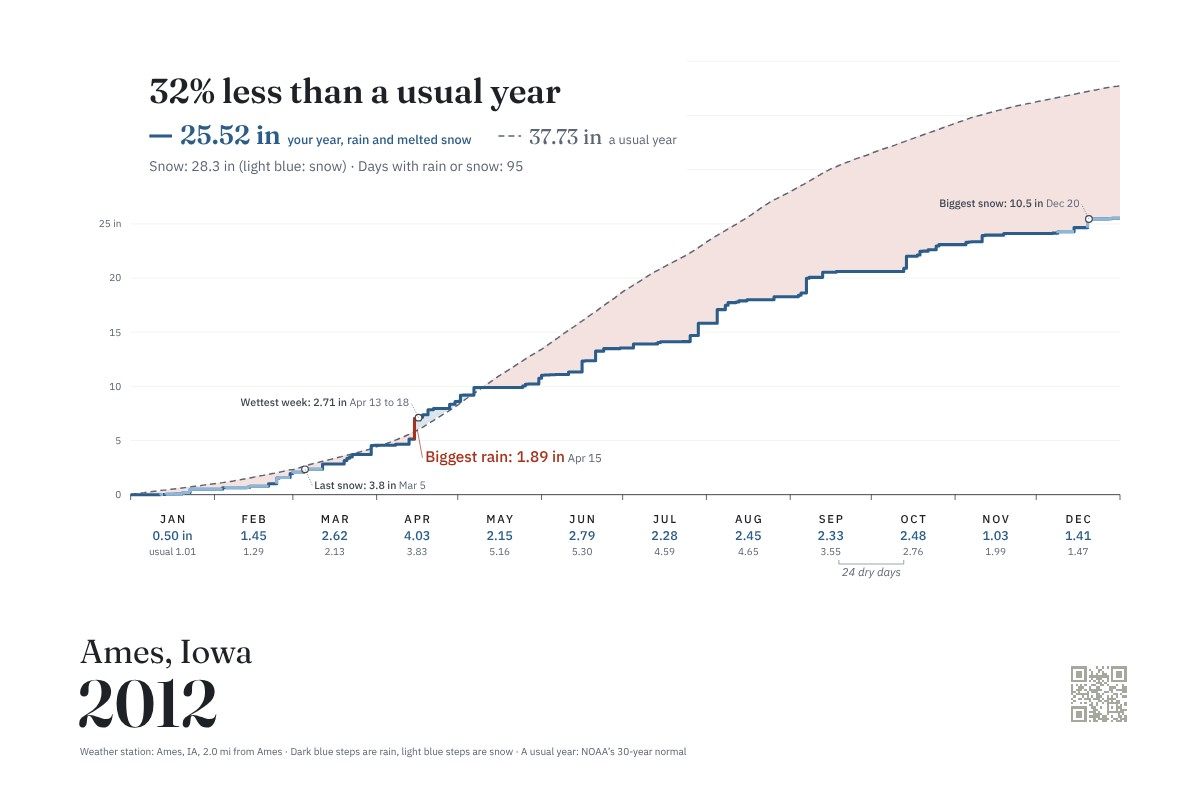
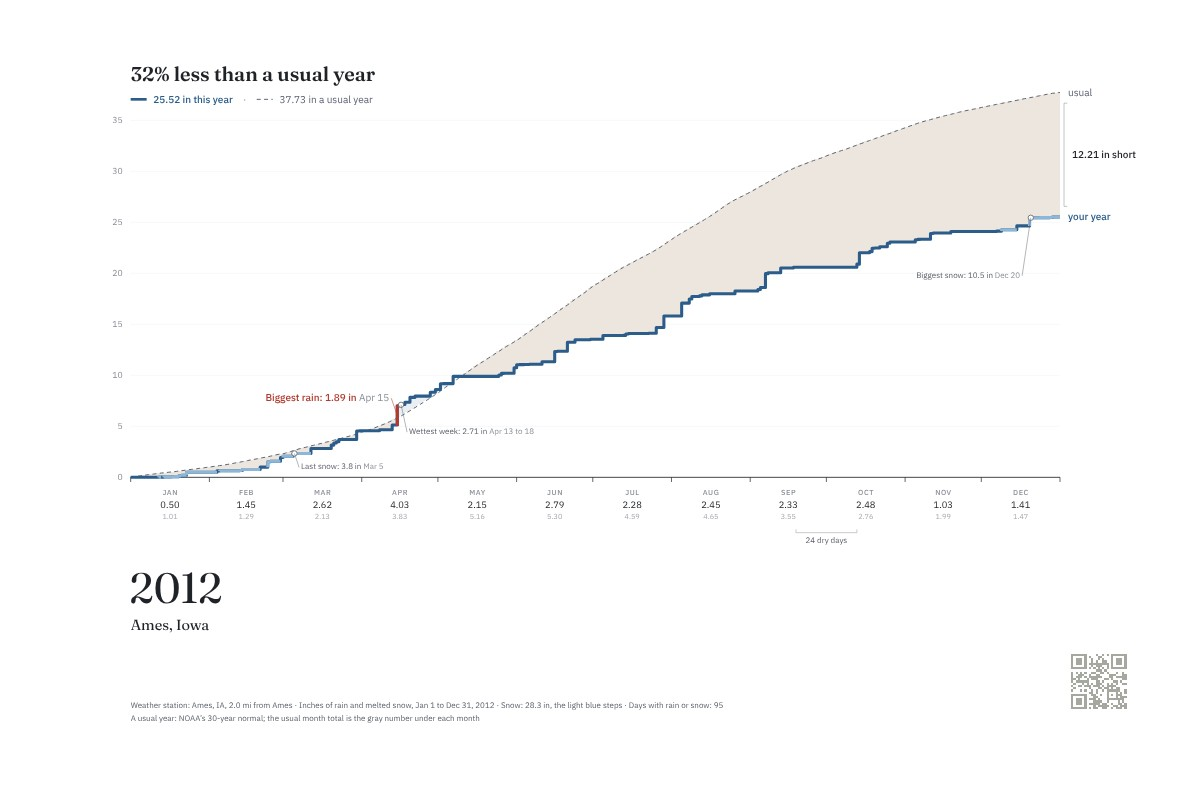
Rain Print: example prints re-rendered in A2 clean; temperature station tried from the listed stations first; a wet year's bracket says more

diff --git a/components/rain-print.js b/components/rain-print.js
@@ -1827,8 +1827,9 @@
       return Promise.resolve(TEMP);
     }
     var town = META.city;
-    return tempStationsNear(META.lat, META.lon, year).then(function (list) {
-      var c = list.filter(function (x) { return x.sid !== META.sid; }).slice(0, 3);
+    /* First the rain stations already listed (most of them were read for the print already, so no new ask),
+       the five nearest; then, if none kept highs and lows, NOAA's list of stations that do, the three nearest. */
+    var tryList = function (c) {
       return Promise.all(c.map(function (x) { return daily(x.sid, year).then(function (d) { return d; }, function () { return null; }); })).then(function (ds) {
         var best = null;
         c.forEach(function (x, i) {
@@ -1836,9 +1837,18 @@
           var td = X.tempDays(ds[i].raw, year);
           if (tempStationOk(td, last)) best = { sid: x.sid, td: td, rows: ds[i].raw, tm: { same: false, name: stationName(ds[i].meta.name || x.name), words: tempAway(x.km) } };
         });
-        if (TEMP_KEY !== key) return;
-        TEMP = best || { none: 'No weather station near ' + town + ' kept daily highs and lows for ' + year + ', so frost, the hottest and coldest day, crop stages and the temperature band are off.' };
+        return best;
       });
+    };
+    var near = STATIONS.filter(function (x) { return x.sid !== META.sid && !(CA() && CA().isSid(x.sid)); }).slice(0, 5);
+    return tryList(near).then(function (best) {
+      if (best) return best;
+      return tempStationsNear(META.lat, META.lon, year).then(function (list) {
+        return tryList(list.filter(function (x) { return x.sid !== META.sid && !near.some(function (n) { return n.sid === x.sid; }); }).slice(0, 3));
+      });
+    }).then(function (best) {
+      if (TEMP_KEY !== key) return;
+      TEMP = best || { none: 'No weather station near ' + town + ' kept daily highs and lows for ' + year + ', so frost, the hottest and coldest day, crop stages and the temperature band are off.' };
     }).then(null, function () { if (TEMP_KEY === key) { TEMP = { none: 'The temperature records didn’t load just now, so frost, the hottest and coldest day, crop stages and the temperature band are off. Try again in a minute.' }; TEMP_KEY = ''; } });
   }
   function tempFound() {

diff --git a/components/rain-print-art.js b/components/rain-print-art.js
@@ -1238,7 +1238,7 @@
       if (E.cmp) { ends.push(T(EX, endN + 5, uw, { size: 15, fill: C.mute })); endBoxes.push(box(EX, endN + 5, uw, { size: 15 })); }
       var gap = E.cmp ? E.normalRec - E.total : 0;
       if (E.cmp && Math.abs(gap) >= 0.5 && Math.abs(endY - endN) > 60) {
-        var bx = X1 + 6, ya = Math.min(endY, endN) + 16, yb = Math.max(endY, endN) - 16, mid = (ya + yb) / 2, bt = rainAmt(Math.abs(gap), 'tot') + (LOC.fr ? (gap > 0 ? ' de moins' : ' de plus') : gap > 0 ? ' short' : ' ahead');
+        var bx = X1 + 6, ya = Math.min(endY, endN) + 16, yb = Math.max(endY, endN) - 16, mid = (ya + yb) / 2, bt = rainAmt(Math.abs(gap), 'tot') + (LOC.fr ? (gap > 0 ? ' de moins' : ' de plus') : gap > 0 ? ' short' : ' more');
         ends.push('<path d="M' + n2(bx + 5) + ',' + n2(ya) + 'H' + n2(bx) + 'V' + n2(yb) + 'H' + n2(bx + 5) + '" fill="none" stroke="' + X.date + '" stroke-width="0.8"/>' + T(bx + 12, mid + 5, bt, { size: 15, w: 500, fill: X.ink }));
         endBoxes.push({ x: bx - 2, y: ya, w: 14 + W(bt, { size: 15, w: 500 }), h: yb - ya });
       }
